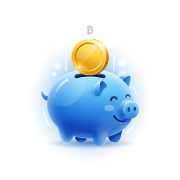
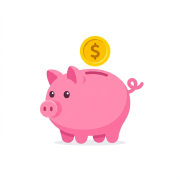
feat: implement user authentication pages and add PWA assets

Changed region(s): [[0.2222, 0.1389, 0.8056, 0.8611]]

diff --git a/frontend/src/pages/Login.jsx b/frontend/src/pages/Login.jsx
@@ -44,7 +44,7 @@ export default function Login() {
   };
 
   return (
-    <div className="min-h-screen flex items-center justify-center bg-slate-950 p-4 relative overflow-hidden select-none">
+    <div className="min-h-screen flex items-center justify-center bg-slate-50 dark:bg-slate-950 p-4 relative overflow-hidden select-none">
       {/* Decorative background gradients */}
       <div className="absolute top-[-20%] left-[-10%] w-[50%] h-[50%] bg-primary/10 rounded-full blur-[120px] pointer-events-none" />
       <div className="absolute bottom-[-20%] right-[-10%] w-[50%] h-[50%] bg-primary/10 rounded-full blur-[120px] pointer-events-none" />

diff --git a/frontend/src/pages/Register.jsx b/frontend/src/pages/Register.jsx
@@ -58,7 +58,7 @@ export default function Register() {
   };
 
   return (
-    <div className="min-h-screen flex items-center justify-center bg-slate-950 p-4 relative overflow-hidden select-none">
+    <div className="min-h-screen flex items-center justify-center bg-slate-50 dark:bg-slate-950 p-4 relative overflow-hidden select-none">
       {/* Decorative background gradients */}
       <div className="absolute top-[-20%] left-[-10%] w-[50%] h-[50%] bg-primary/10 rounded-full blur-[120px] pointer-events-none" />
       <div className="absolute bottom-[-20%] right-[-10%] w-[50%] h-[50%] bg-primary/10 rounded-full blur-[120px] pointer-events-none" />